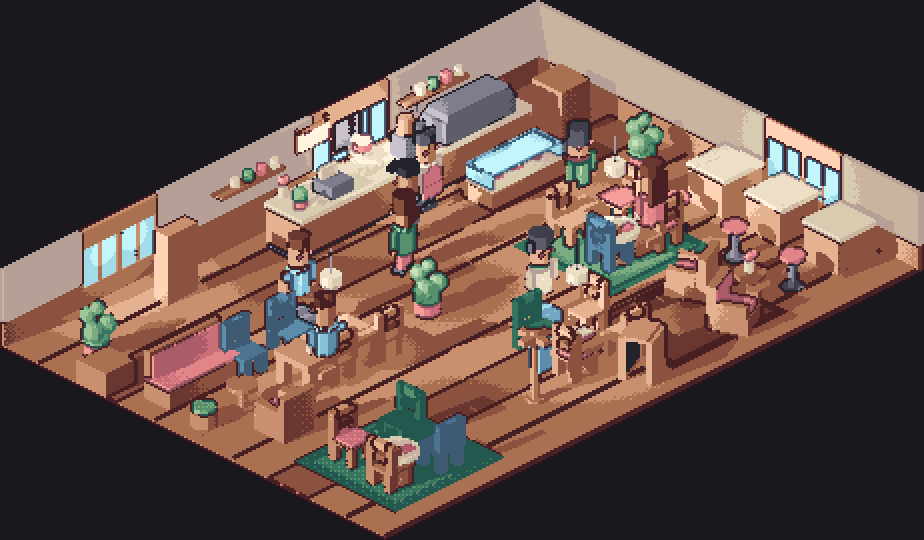
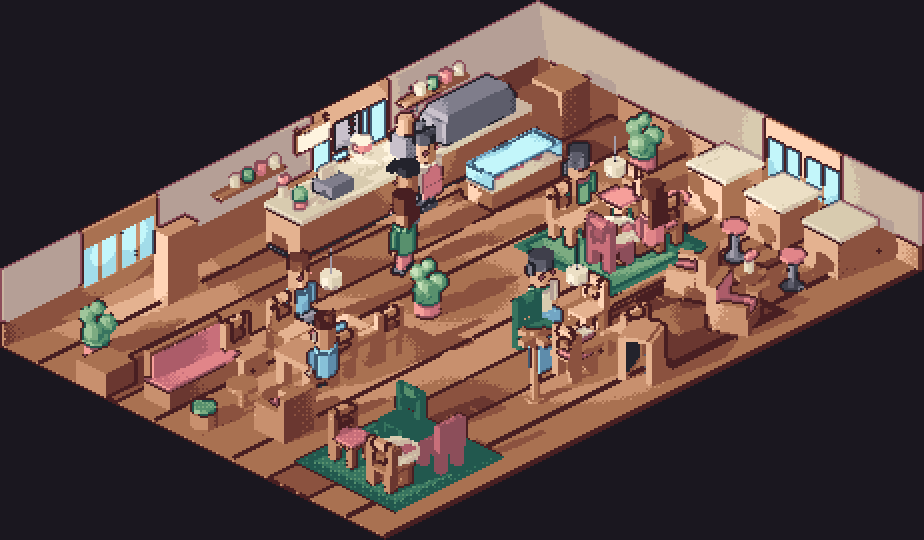
Clip review surface, grounding check, and a seated rig that was 30% too tall
preview_clips.py is stage 9 for motion: a sprite sheet is the machine's format
and near-useless for judging animation, since timing and weight are invisible in
a grid of stills. Emits both a strip per clip and a looping GIF per clip.

Building it surfaced that the seated rig was wrong, and had been through every
render so far. The seated leg parts are authored about the hip at z=0 while the
torso and arms are authored for a standing figure with hips at HIP_Z, and they
were merged untranslated -- a standing torso stacked on folded legs. Result: a
seated figure 2.24 tall against a standing 1.72, taller sitting down than
standing up, with its feet below the floor. Now the upper body drops to the
seated hip and the whole rig is ground-clamped like the standing one, so a
seated sprite is a person with their feet on the floor and hips at seat height.
Seated 1.71 vs standing 1.72 -- barely lower, which is correct for a chibi rig
whose hip sits at 27% of height rather than a realistic 54%.

That also reclaimed 30% of every tile in the sheet: fit() spans all clips, so
the seated pose hanging 0.52 below origin was shrinking every standing frame to
make room for space it never occupied.

New check: Layout.grounded(). Floating and sunk props have been the single most
repeated defect here -- seated characters standing on chairs, shelves hovering
above a wall, characters buried in the floor -- each caught by eye, one at a
[…]

diff --git a/tools/preview_clips.py b/tools/preview_clips.py
@@ -1,0 +1,123 @@
+#!/usr/bin/env python3
+"""Contact sheet and GIFs for animation review.
+
+Stage 9 for motion. A sprite sheet is the machine's format and is close to
+useless for judging animation: timing, weight and foot-slide are invisible in a
+grid of stills. So this emits both -- a strip per clip for reading poses side by
+side, and a looping GIF per clip for reading motion.
+
+    python tools/preview_clips.py [--who barista] [--dir 0]
+"""
+from __future__ import annotations
+
+import argparse
+import sys
+from pathlib import Path
+
+from PIL import Image, ImageDraw
+
+sys.path.insert(0, str(Path(__file__).parent))
+import character as C  # noqa: E402
+import fx as FXM  # noqa: E402
+from animate import fit, render_frame  # noqa: E402
+from pixelize import load_palette  # noqa: E402
+
+ROOT = Path(__file__).resolve().parent.parent
+BG = (30, 27, 36)
+LABEL = (214, 208, 218)
+
+
+def to_img(px, target, scale, bg=BG):
+    img = Image.new("RGB", (target, target), bg)
+    img.putdata([c if c is not None else bg for c in px])
+    return img.resize((target * scale, target * scale), Image.NEAREST)
+
+
+def foot_slide(spec, clip, frames):
+    """How far the planted foot drifts across the cycle, in world units.
+
+    The classic locomotion defect: a walk whose feet skate because the stride
+    does not match the distance travelled. In a sprite pipeline the character is
+    moved by the game, not by the clip, so what matters is that the two contact
+    feet trade off symmetrically -- an asymmetric cycle limps.
+    """
+    lows = []
+    for f in range(frames):
+        ph = f / frames
+        pose = C.CLIPS[clip](ph)
+        lows.append((pose.leg_l, pose.leg_r))
+    fwd = [a for a, _ in lows]
+    back = [b for _, b in lows]
+    # A symmetric gait has leg_r equal to leg_l shifted by half a cycle.
+    half = frames // 2
+    if half == 0:
+        return 0.0
+    err = max(abs(fwd[i] + back[i]) for i in range(frames))
+    shift = max(abs(fwd[i] - back[(i + half) % frames]) for i in range(frames))
+    return max(err, shift)
+
+
+def main() -> int:
+    ap = argparse.ArgumentParser()
+    ap.add_argument("--who", default="barista")
+    ap.add_argument("--dir", type=int, default=0, help="azimuth index 0-7")
+    ap.add_argument("--target", type=int, default=48)
+    ap.add_argument("--factor", type=int, default=3)
+    ap.add_argument("--scale", type=int, default=2)
+    args = ap.parse_args()
+
+    ramps = load_palette()
+    roster = {s.name: s for s in C.ROSTER}
+    if args.who not in roster:
+        print(f"unknown character {args.who!r}; have {', '.join(roster)}")
+        return 1
+    spec = roster[args.who]
+
+    clip_specs = [("idle", 4), ("walk", 8), ("carry_walk", 8), ("sit", 4),
+                  ("sit_idle", 4), ("sip", 4), ("wave", 4), ("serve", 4),
+                  ("wipe", 6), ("brew", 6), ("pour", 6), ("talk", 4),
+                  ("wait_impatient", 4), ("leave", 8)]
+    span, centre, anchors = fit(spec, clip_specs)
+    az = 45.0 + args.dir * 45.0
+
+    t, sc = args.target, args.scale
+    cell = t * sc
+    cols = max(f for _, f in clip_specs)
+    pad, label_h = 6, 14
+    sheet = Image.new("RGB", (110 + cols * (cell + pad) + pad,
+                              len(clip_specs) * (cell + pad) + pad), (18, 16, 22))
+    d = ImageDraw.Draw(sheet)
+
+    gifdir = ROOT / "proof" / "clips"
+    gifdir.mkdir(parents=True, exist_ok=True)
+
+    print(f"{args.who}, direction {args.dir} (azimuth {az:.0f})")
+    for r, (name, frames) in enumerate(clip_specs):
+        y = pad + r * (cell + pad)
+        d.text((6, y + cell // 2 - 4), f"{name}", fill=LABEL)
+        d.text((6, y + cell // 2 + 6), f"{frames}f", fill=(140, 136, 148))
+        imgs = []
+        for f in range(frames):
+            ph = f / frames
+            mesh = C.build(spec, pose=C.CLIPS[name](ph),
+                           seated=C.is_seated(name, ph))
+            px = render_frame(mesh, az, ramps, t, args.factor,
+                              centre=centre, span=span)
+            img = to_img(px, t, sc)
+            sheet.paste(img, (110 + f * (cell + pad), y))
+            imgs.append(img.convert("P", palette=Image.ADAPTIVE))
+        imgs[0].save(gifdir / f"{args.who}_{name}.gif", save_all=True,
+                     append_images=imgs[1:], duration=int(1000 / 12), loop=0)
+        slide = foot_slide(spec, name, frames)
+        flag = "  <-- asymmetric gait" if name in ("walk", "leave") and slide > 1e-6 else ""
+        print(f"  {name:15s} {frames}f  gait asymmetry {slide:6.2f} deg{flag}")
+
+    out = ROOT / "proof" / f"clips_{args.who}.png"
+    sheet.save(out)
+    print(f"\nwrote {out}")
+    print(f"wrote {len(clip_specs)} GIFs to {gifdir}")
+    return 0
+
+
+if __name__ == "__main__":
+    raise SystemExit(main())

diff --git a/tools/character.py b/tools/character.py
@@ -59,6 +59,7 @@ HIP_Z, SHOULDER_Z = 0.46, 0.92     # limb pivots, for posing
 
 
 ANKLE_Z = 0.10
+SEAT_Z = 0.45          # chair seat height; assetlib.chair() must agree
 
 
 def leg(sx: float, mat: str) -> Mesh:
@@ -96,12 +97,15 @@ def legs(mat: str, spread: float = 0.105, seated: bool = False) -> Mesh:
     if seated:
         # Thighs forward (+y, the side the camera sees), shins down: a standing
         # figure parked at seat height reads as standing *on* the chair.
+        # Authored about the HIP at z=0, with the shins reaching down to
+        # -SEAT_Z so the feet land on the floor when a chair seat is at SEAT_Z.
         m = Mesh()
         for sx in (-spread, spread):
             m.add_box((sx - 0.098, -0.10, -0.10), (sx + 0.098, 0.34, 0.04), mat)
-            m.add_box((sx - 0.098, 0.16, -0.46), (sx + 0.098, 0.34, -0.10), mat)
-            m.add_box((sx - 0.105, 0.16, -0.52), (sx + 0.105, 0.40, -0.44),
-                      "neutral-1")
+            m.add_box((sx - 0.098, 0.16, -SEAT_Z + 0.06),
+                      (sx + 0.098, 0.34, -0.10), mat)
+            m.add_box((sx - 0.105, 0.16, -SEAT_Z),
+                      (sx + 0.105, 0.40, -SEAT_Z + 0.08), "neutral-1")
         return m
     return merge(leg(-spread, mat), leg(spread, mat))
 
@@ -291,7 +295,24 @@ def build(spec: CharacterSpec, seated: bool = False,
 
     limbs = [posed_arm(-x, p.arm_l, p.out_l), posed_arm(x, p.arm_r, p.out_r)]
     if seated:
-        return merge(legs(spec.trousers, seated=True), body, *limbs)
+        # Drop the upper body to the seated hip. The torso and arms are authored
+        # for a standing figure whose hips sit at HIP_Z, while the seated leg rig
+        # is authored about the hip at z=0. Merging them untranslated stacked a
+        # standing torso on top of folded legs and produced a seated figure
+        # 2.24 tall against a standing 1.72 -- taller sitting down than up.
+        drop = (0.0, 0.0, -HIP_Z)
+        out = merge(legs(spec.trousers, seated=True),
+                    transformed(body, at=drop),
+                    *(transformed(l, at=drop) for l in limbs))
+        # Ground-clamped like the standing rig. The seated parts are authored
+        # around the hips, so the mesh hung 0.52 below the origin and every
+        # sprite in the sheet had to be scaled down to accommodate it -- the
+        # standing frames lost 30% of their tile to empty space under a pose
+        # they never strike. Clamped, a seated figure is simply a person with
+        # their feet on the floor and their hips at seat height, which is both
+        # what it looks like and what makes the anchor consistent across clips.
+        low = min(v[2] for v in out.verts)
+        return transformed(out, at=(0.0, 0.0, p.bob - low))
     for sx, ang in ((-spread, p.leg_l), (spread, p.leg_r)):
         limbs.append(pivot_rot(leg(sx, spec.trousers), "x", -ang, (sx, 0.0, HIP_Z)))
         limbs.append(transformed(foot(sx), at=_ankle_offset(sx, ang)))

diff --git a/tools/layout.py b/tools/layout.py
@@ -37,6 +37,9 @@ class Placed:
 
 # Pairs allowed to interpenetrate: seating tucks under tables, props sit on
 # counters, clutter sits on tables.
+# Kinds that hang on a wall and legitimately have nothing beneath them.
+WALL_MOUNTED = {"menu", "sign", "shelf", "decor#menu", "picture"}
+
 TUCK_OK = {
     frozenset({"chair", "table"}), frozenset({"chair", "counter"}),
     frozenset({"stool", "counter"}), frozenset({"stool", "bar"}),
@@ -116,6 +119,45 @@ class Layout:
             n = math.hypot(tvx, tvy) or 1e-9
             if (bx * tvx + by * tvy) / n > 0.25:
                 out.append(f"{p.name}: back points toward the table it serves")
+        return out
+
+    def grounded(self, tol: float = 0.03) -> list[str]:
+        """Every object must rest on the floor or on something beneath it.
+
+        Floating and sunk props have been the most repeated defect in this
+        project -- seated characters standing on chairs, characters buried in
+        the floor, shelves hovering above a wall, a lamp pool with nothing under
+        it. Each was caught by eye, one at a time, after a full render. It is a
+        pure geometry question: an object is well founded if its underside meets
+        either the floor or the top of something whose footprint it overlaps.
+        """
+        out = []
+        for p in self.items:
+            if p.name == "_untracked":
+                continue
+            kind = p.name.split("#")[0]
+            tag = p.name.split("#")[-1]
+            if kind in WALL_MOUNTED or any(w in tag for w in WALL_MOUNTED):
+                continue                              # hangs on a wall
+            if abs(p.z0) <= tol:
+                continue                              # on the floor
+            best = None
+            for q in self.items:
+                if q is p or q.name == "_untracked":
+                    continue
+                ox = min(p.x1, q.x1) - max(p.x0, q.x0)
+                oy = min(p.y1, q.y1) - max(p.y0, q.y0)
+                if ox <= 0 or oy <= 0 or q.z1 > p.z0 + tol:
+                    continue
+                if best is None or q.z1 > best:
+                    best = q.z1
+            if best is None:
+                out.append(f"{p.name}: underside at z={p.z0:.2f} with nothing "
+                           f"beneath it - floats")
+            elif p.z0 - best > tol:
+                out.append(f"{p.name}: underside at z={p.z0:.2f} sits "
+                           f"{p.z0 - best:.2f} above the surface below "
+                           f"(z={best:.2f}) - floats")
         return out
 
     def collisions(self, share: float = 0.34) -> list[str]:

diff --git a/tools/render_room.py b/tools/render_room.py
@@ -91,7 +91,12 @@ def build_room():
     # only in hue and read as equal-weight pastel blocks that pulled focus off
     # the counter. At -3 they are deep painted wood: they separate by hue but
     # recede by value, which is the whole point. One in three, not one in two.
-    FRAMES = ("wood", "wood", "sky-3", "wood", "wood", "foliage-3")
+    #
+    # And no `sky` on furniture. The cool ramp is reserved for glass, windows
+    # and daylight; spending it on chairs put six blue masses through a warm
+    # room and made the coldest thing in frame a piece of seating. Reserving a
+    # ramp for one job is what lets it mean something.
+    FRAMES = ("wood", "wood", "rose-2", "wood", "wood", "foliage-3")
     tables = [(3.3, 5.3, "cafe", "cream"), (6.6, 7.7, "books", "wood"),
               (11.9, 8.2, "cafe", "cream")]
     for n, (tx, ty, clutter, ttop) in enumerate(tables):
@@ -107,7 +112,7 @@ def build_room():
     add(A.table_4top(), at=(9.5, 4.5, 0), name="table#4top")
     add(A.table_clutter("work"), at=(9.9, 4.5, 0.71), name="clutter#4top")
     for cx in (9.8, 11.0):
-        add(A.chair(frame="sky-3"),     at=(cx, 3.35, 0), rot=0,   name=f"chair#4t_{cx}a")
+        add(A.chair(),                  at=(cx, 3.35, 0), rot=0,   name=f"chair#4t_{cx}a")
         add(A.chair(),                  at=(cx, 5.65, 0), rot=180, name=f"chair#4t_{cx}b")
 
     # --- window bar with stools along the far-left wall
@@ -164,7 +169,7 @@ def build_room():
     seated = [(3.3, 5.3 - 0.95, 0, 0), (3.3, 5.3 + 0.95, 180, 2),
               (6.6, 7.6 - 0.95, 0, 4), (9.8, 3.55, 0, 1), (11.0, 5.45, 180, 6)]
     for i, (cx, cy, rot, who) in enumerate(seated):
-        add(C.build(C.CUSTOMERS[who], seated=True), at=(cx, cy, 0.45), rot=rot,
+        add(C.build(C.CUSTOMERS[who], seated=True), at=(cx, cy, 0.0), rot=rot,
             name=f"char#seat{i}")
     add(C.build(C.CUSTOMERS[3]), at=(6.0, 2.6, 0), rot=200, name="char#queue0")
     add(C.build(C.CUSTOMERS[7]), at=(6.8, 3.3, 0), rot=200, name="char#queue1")
@@ -200,6 +205,13 @@ def main() -> int:
             print(f"    {h}")
     else:
         print("  no collisions")
+    floating = L.grounded()
+    if floating:
+        print(f"  FLOATING ({len(floating)}):")
+        for f in floating:
+            print(f"    {f}")
+    else:
+        print("  everything rests on a surface")
     facing = L.seating_faces_tables()
     if facing:
         print(f"  SEATING FACING ({len(facing)}):")

diff --git a/tools/assetlib.py b/tools/assetlib.py
@@ -191,7 +191,11 @@ def counter(kick=True) -> Mesh:
     """Modular: the body spans the FULL tile so a run tiles seamlessly.
     Insetting it left a seam between every adjacent module."""
     m = Mesh()
-    m.add_box((0.0, 0.06, 0.10), (1.0, 0.94, 0.82), WOOD)       # carcass, full width
+    # Without a plinth the carcass must reach the floor itself. It did not, so
+    # every kick=False counter -- the whole window bar run -- hovered 0.10 above
+    # the ground. Invisible at a glance and caught by Layout.grounded().
+    base = 0.10 if kick else 0.0
+    m.add_box((0.0, 0.06, base), (1.0, 0.94, 0.82), WOOD)       # carcass, full width
     if kick:
         m.add_box((0.0, 0.12, 0.0), (1.0, 0.88, 0.10), "neutral")  # recessed plinth
     m.add_box((0.0, 0.0, 0.82), (1.0, 1.0, 0.92), CERAMIC)      # worktop, overhangs

diff --git a/README.md b/README.md
@@ -19,16 +19,33 @@ which is the point.
 
     pip install -r tools/requirements.txt
 
-    python tools/render_batch.py                        # generate a direction set
-    python tools/review_queue.py build "sprites/*.png"   # auto-review + contact sheet
+    python tools/palette_forge.py        # compute + validate the 40-colour palette
+    python tools/animate.py --fx         # the deliverable: sheets + atlas.json
+    python tools/render_room.py          # whole-shop composite (integration test)
+
+    # review surfaces -- what a human actually looks at
+    python tools/preview_clips.py --who barista   # clip strips + looping GIFs
+    python tools/preview_characters.py            # roster + 8 directions
+    python tools/review_queue.py build "sprites/*.png"
     # fill verdict + reason in review/verdicts.jsonl
-    python tools/review_queue.py stats                   # what to automate next
+    python tools/review_queue.py stats            # what to automate next
+
+    # the gates
+    python tools/manifest.py --check     # budget, ramps, clips, symmetry claims
+    python tools/character.py            # hair contrast, silhouette floor
+    python tools/fx.py                   # loop seams
 
 ## The loop is a ratchet
 
 Every human rejection carries a reason. Reasons that recur get promoted into the
 automated tier, so **human review volume falls as the factory matures**. `stats`
 names the next check to write rather than leaving it to guesswork.
+
+Seven checks have been promoted so far: camera-space key light, hair/skin
+contrast, silhouette pixel floor, seating orientation, member thickness,
+grounding, and declared-symmetry verification. Three of them found bugs the
+moment they were written — floating counters, back-to-front chairs, and five
+wrong symmetry claims that were costing 31% of the effects budget.
 
 This has already happened once. The first batch rotated the camera with a
 world-fixed light, so the lit face drifted around the object between directions.
@@ -56,7 +73,30 @@ Projection is verified, not assumed: a ground-plane unit square measures
 - **[ASSET_SPEC.md](ASSET_SPEC.md)** — the rubric: projection, palette, per-asset contract
 - **[style_bible.yaml](style_bible.yaml)** — the art direction, as an **input**.
   Swap it to retarget the factory at a different game.
-- **`tools/`** — renderer, pixelizer, palette forge, reviewer, review queue
+- **`tools/`** — renderer, pixelizer, palette forge, rig, effects, reviewers
+
+### Output
+
+`animate.py` writes `sprites/`: one sheet per character (rows are directions,
+clips stacked in row-blocks) plus `atlas.json` with frame rects, fps and
+**per-clip anchors**. Anchors are per clip because a seated clip's contact point
+is the seat and a standing clip's is the floor — one anchor for both plants every
+sitting customer either in the chair or above it.
+
+## The rig is six numbers
+
+`character.Pose` is six limb angles, a vertical offset and a twist. That is the
+whole rig, and the smallness is the design: at 46 px of figure a pose reads from
+limb *direction* and body height, not from articulation — an elbow is one pixel.
+
+Two behaviours fall out of constraints rather than being animated:
+
+- **The walk bob is derived.** Posed figures are ground-clamped, and swinging a
+  leg about its hip shortens its vertical reach, so the body drops when the legs
+  spread and rides high when they close. Measured 1.0 px at room scale.
+- **The foot does not rotate with the leg.** An ankle keeps it flat. Rotating it
+  rigidly drove its corner into the floor, and since the figure is
+  ground-clamped that lifted the body and *inverted* the bob.
 
 ## Art direction (case study one)
 
